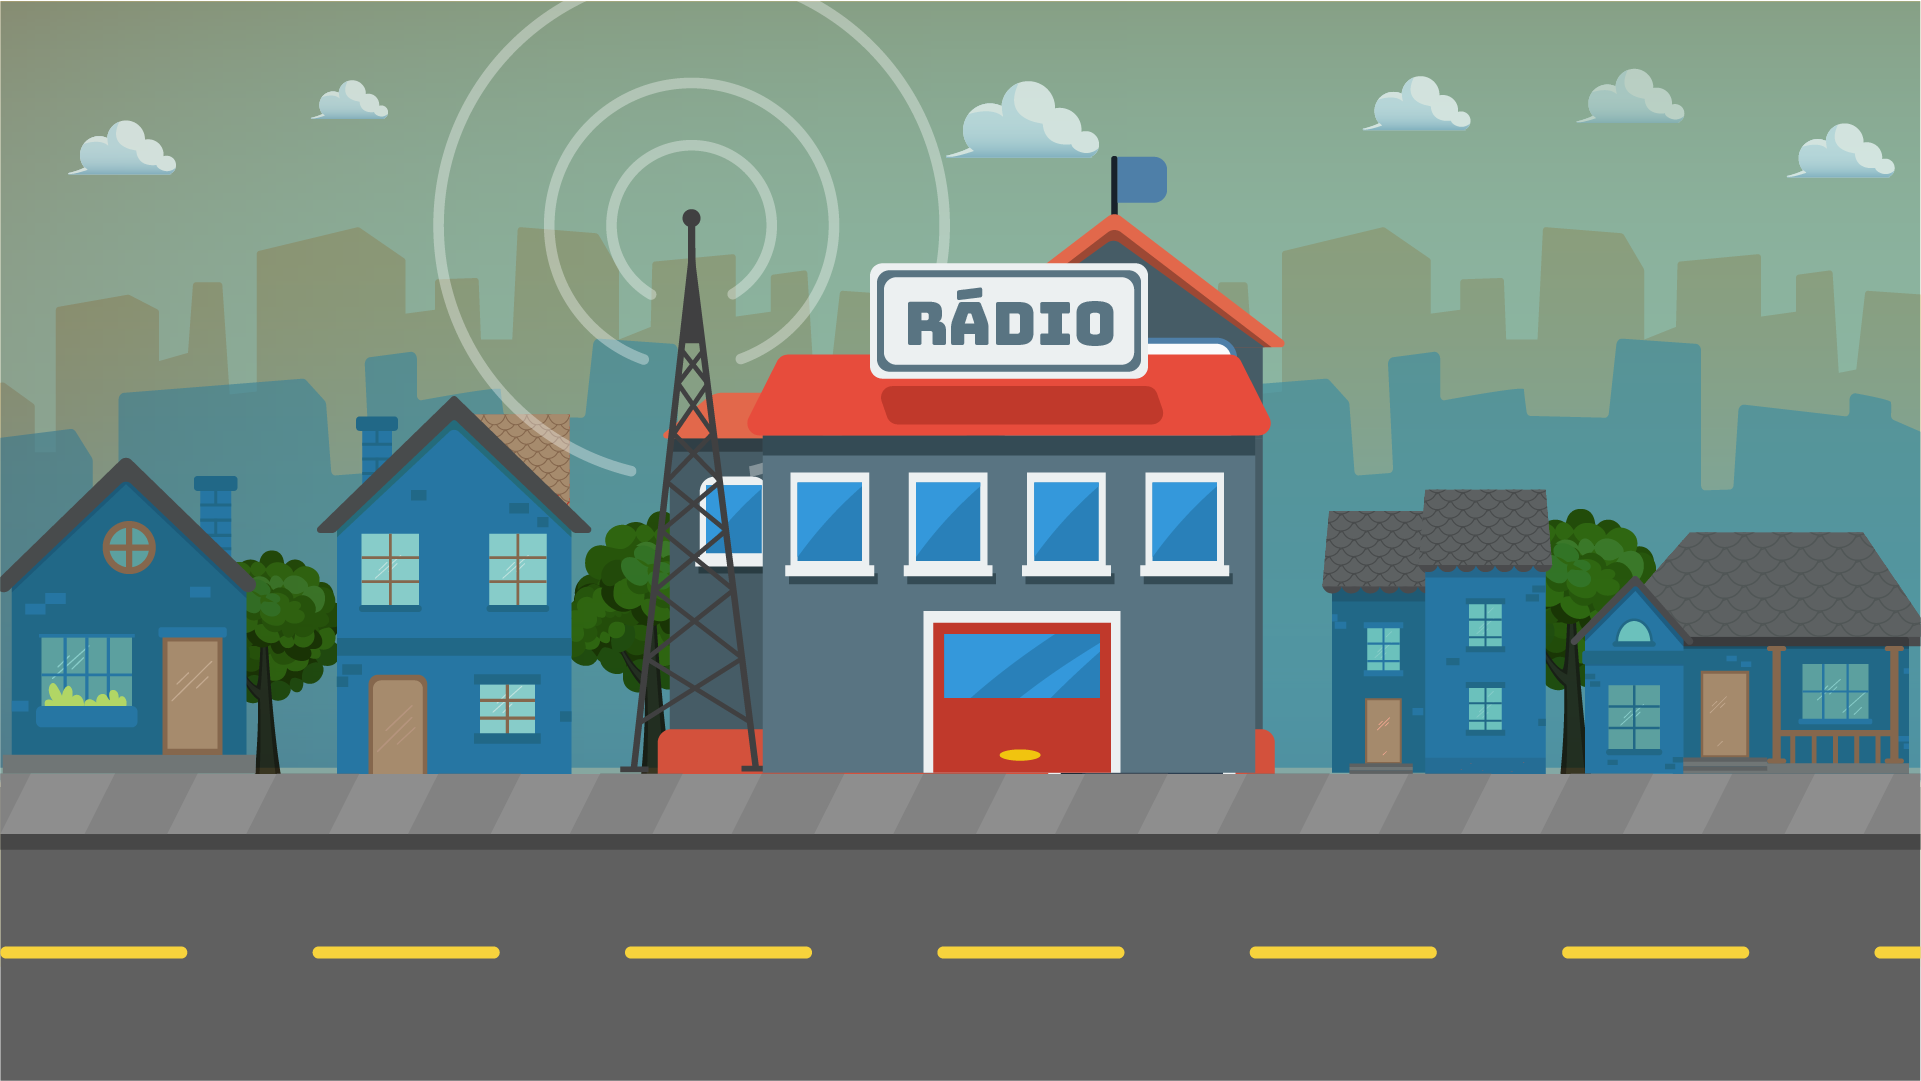
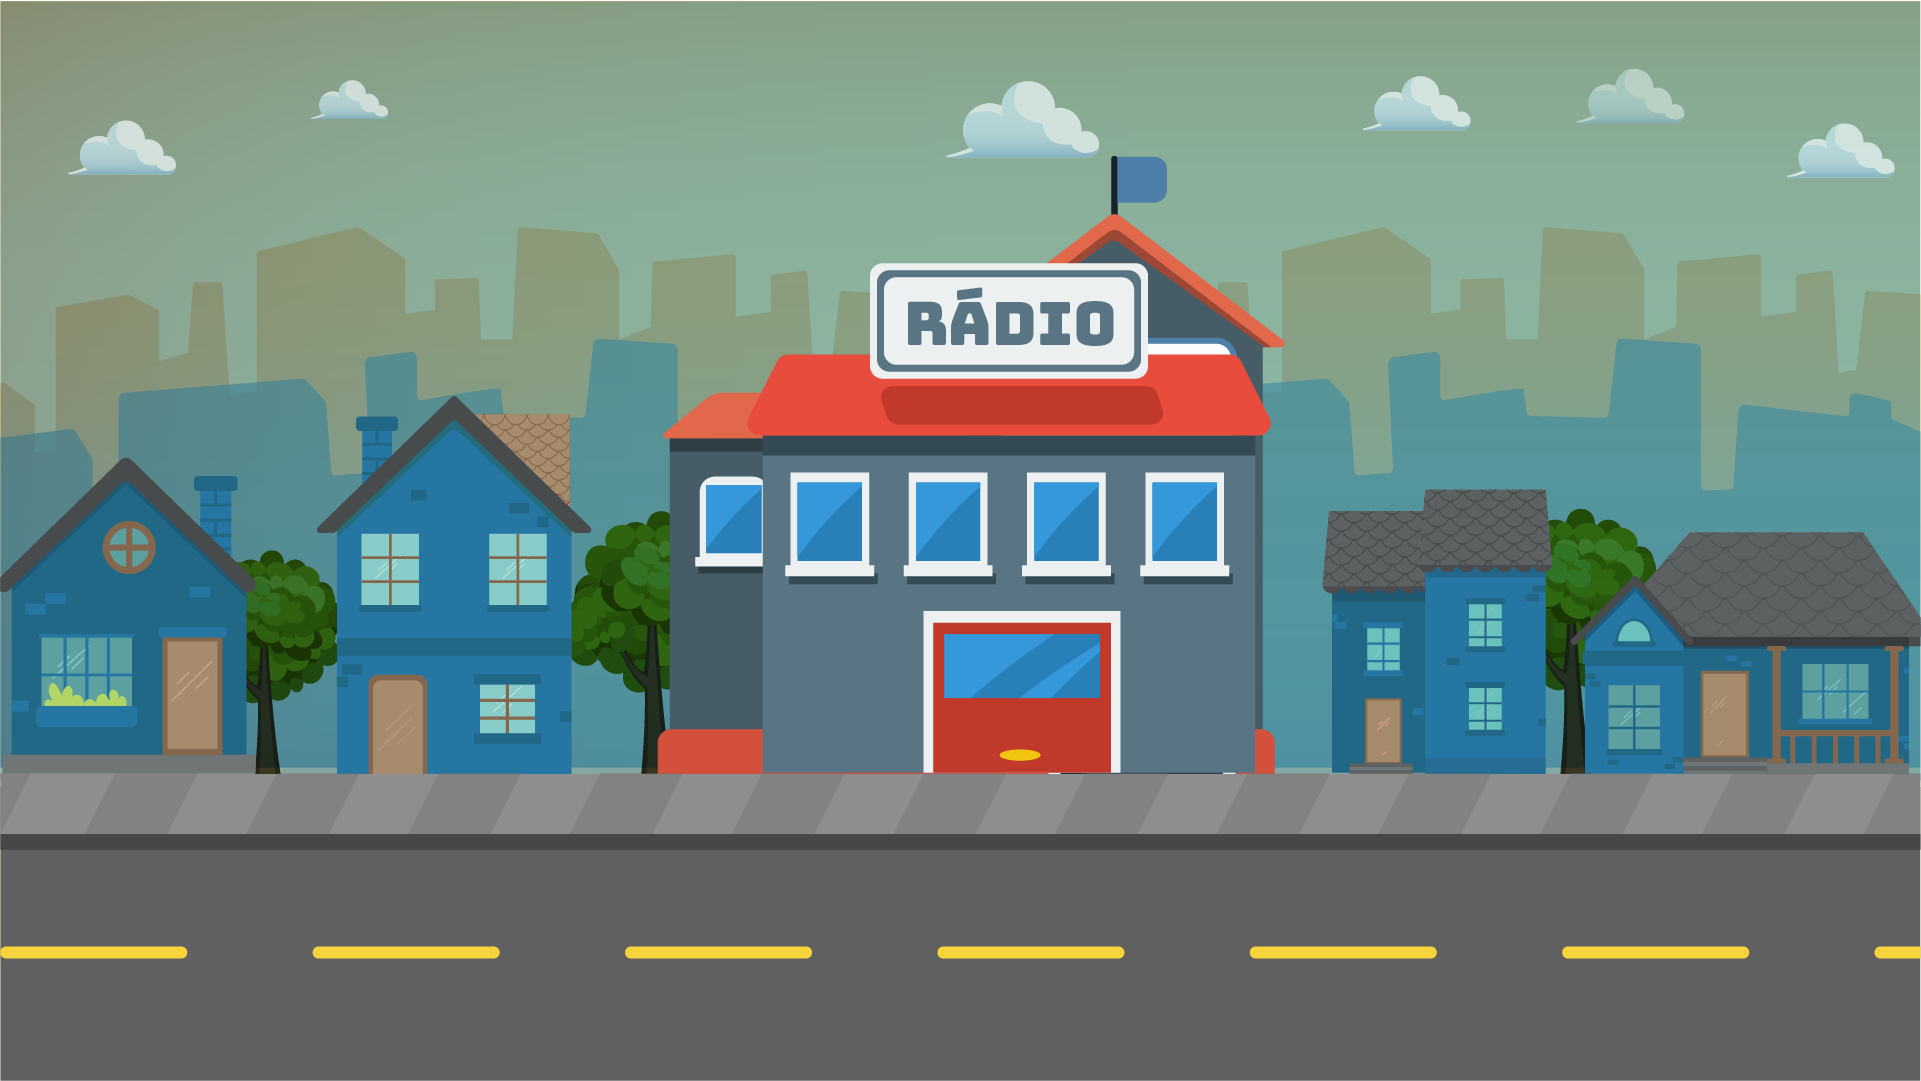
teste com animacoes

diff --git a/desafio Radio.html b/desafio Radio.html
@@ -22,6 +22,7 @@
 
 
 	<section id="desafioRadio">
+		<div id="antenaRadio" class="antenaRadio"></div>
 		<img class="jornalRua" id="jornalRua1" src="img/desafios/governo/radio/item_jornal.png">
 		<img class="jornalRua" id="jornalRua2" src="img/desafios/governo/radio/item_rolojornal.png">
 		<img class="jornalRua" id="jornalRua3" src="img/desafios/governo/radio/item_jornal.png">
@@ -64,6 +65,8 @@
 <script type="text/javascript" src="js/content.js"></script>
 <script type="text/javascript" src="js/main.js"></script>
 <script type="text/javascript" src="js/desafios.js"></script>
+<script type="text/javascript" src="vendor/motion/jquery.motio.min.js"></script>
+<script type="text/javascript" src="vendor/motion/motio.min.js"></script>
 
 <script type="text/javascript">
 actual_badge = badges_texts["gov"]

diff --git a/css/style.css b/css/style.css
@@ -2719,6 +2719,12 @@ display: none;
 
 }
 
+#antenaRadio{
+
+}
+
+
+
 #cestaRadio{
   position: absolute;
   bottom: 24%;
